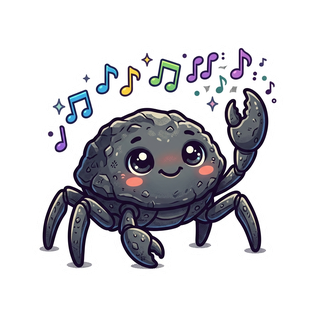
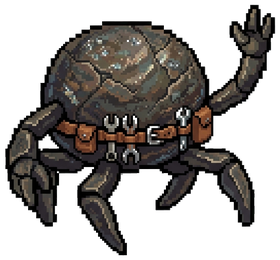
Update Rocky to authentic 16-bit Hearthian pixel art sprite

diff --git a/index.html b/index.html
@@ -245,10 +245,14 @@ canvas{image-rendering:pixelated;image-rendering:crisp-edges}
   transform: scale(0.95) rotate(-2deg);
 }
 #rockyImg {
-  width: 82px;
-  height: 82px;
+  width: 86px;
+  height: auto;
+  aspect-ratio: 280 / 260;
   display: block;
   pointer-events: auto;
+  image-rendering: pixelated;
+  image-rendering: -moz-crisp-edges;
+  image-rendering: crisp-edges;
   animation: rockyBreathe 4s ease-in-out infinite;
 }
 @keyframes rockyBreathe {
